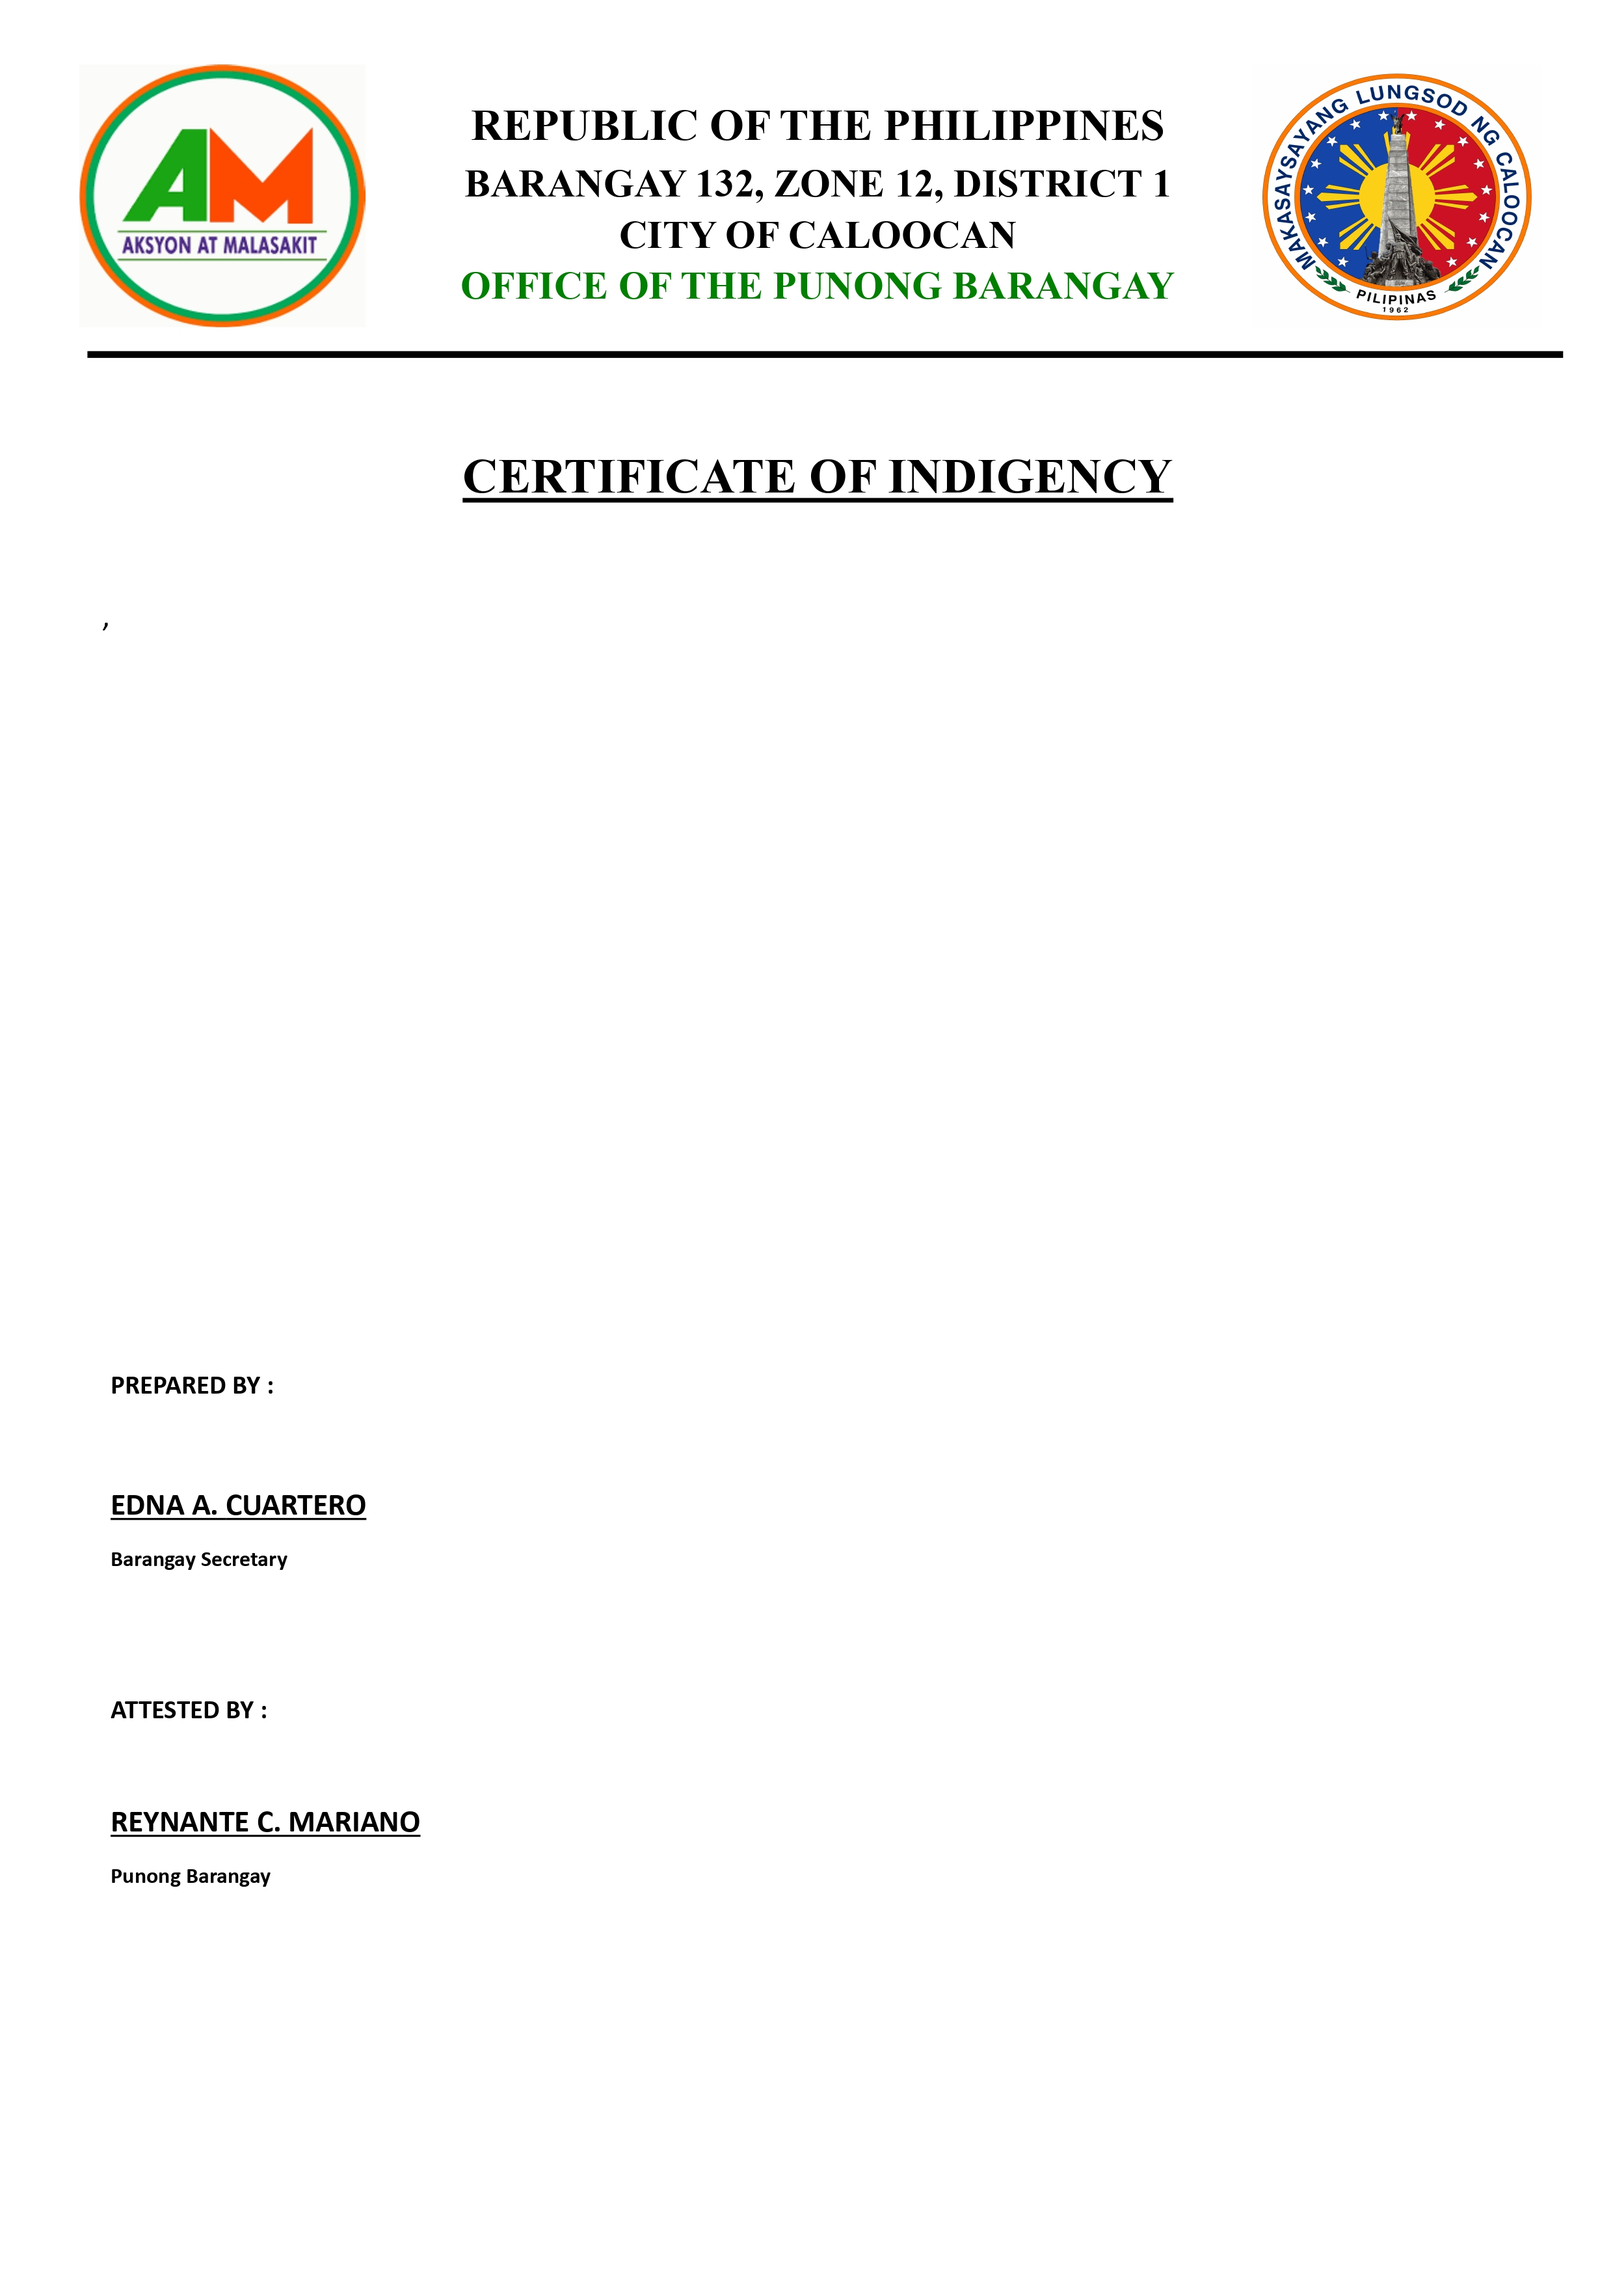
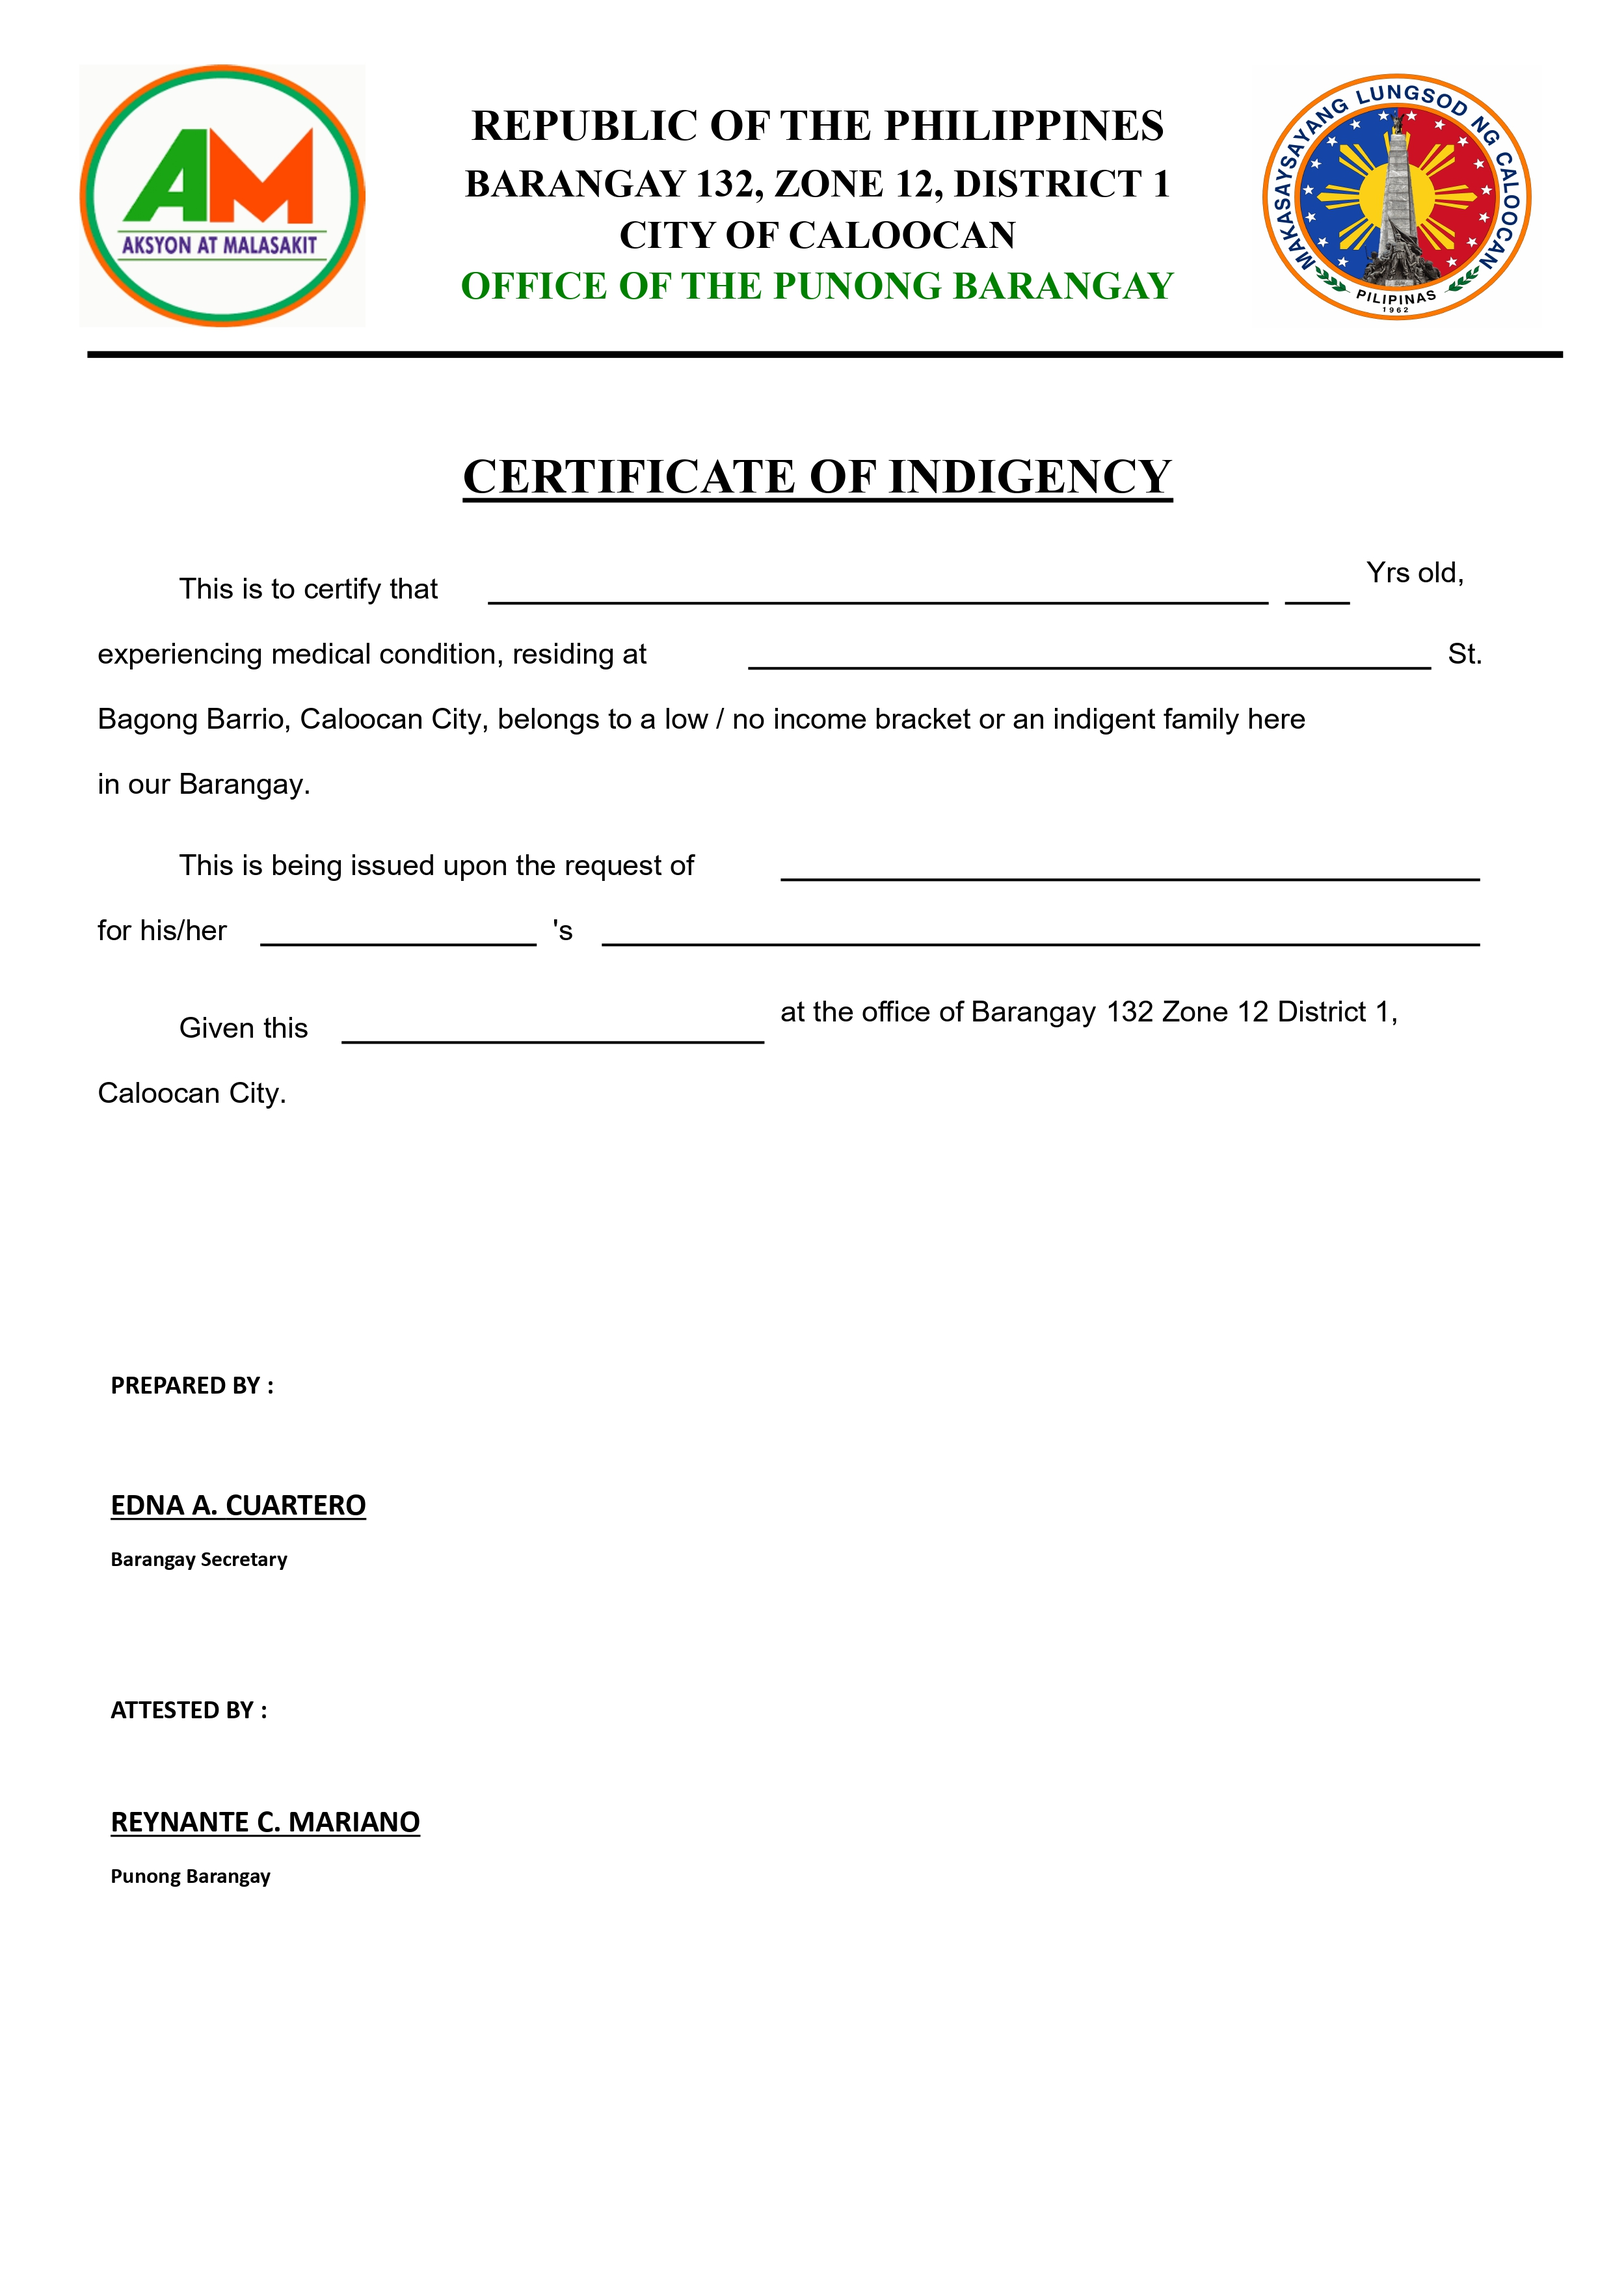
cert indigency

diff --git a/src/app/shared/master-data/master-data.component.ts b/src/app/shared/master-data/master-data.component.ts
@@ -1,5 +1,5 @@
 import { CommonModule } from '@angular/common';
-import { Component, inject, OnDestroy, OnInit } from '@angular/core';
+import { Component, inject, OnDestroy, OnInit, TemplateRef } from '@angular/core';
 import { FormsModule } from '@angular/forms';
 import { NgbActiveModal, NgbDateAdapter, NgbDateParserFormatter, NgbDateStruct, NgbDropdownModule, NgbModal } from '@ng-bootstrap/ng-bootstrap';
 import { ResidentInfoComponent } from '../resident-info/resident-info.component';
@@ -62,6 +62,14 @@ export class MasterDataComponent implements OnInit, OnDestroy {
   selectedImages!: FileList;
   imagesBase64: string[] = []
   o: Resident | undefined;
+
+  parameters = {
+    name: '',
+    age: '',
+    street: '',
+    relation: '',
+    purpose: ''
+  };
 
 
   constructor(private activeModal: NgbActiveModal,
@@ -411,7 +419,7 @@ export class MasterDataComponent implements OnInit, OnDestroy {
       const resident = this.residents[this.selectedResident];
       const fullName = resident.last_name?.toString() + ", "
         + resident.first_name?.toString() + " "
-        + resident.middle_name?.toString()
+        + resident.middle_name?.toString();
 
       const address = resident.present_address?.toString() ?? "";
       const birth_date = resident.birth_date?.toString() ?? "";
@@ -442,31 +450,30 @@ export class MasterDataComponent implements OnInit, OnDestroy {
   }
 
   async generateCertIndigency() {
-    const { value: text } = await Swal.fire({
-      input: "textarea",
-      inputLabel: "Message",
-      inputPlaceholder: "Type your message here...",
-      inputAttributes: {
-        "aria-label": "Type your message here"
-      },
-      showCancelButton: true
+    const doc = new jsPDF({
+      format: 'a4',
+      unit: 'px'
     });
-    if (text) {
-      const doc = new jsPDF({
-        format: 'a4',
-        unit: 'px'
-      });
+    const today = new Date();
+    const resident = this.residents[this.selectedResident];
+    const fullName = resident.last_name?.toString() + ", "
+        + resident.first_name?.toString() + " "
+        + resident.middle_name?.toString();
+    const template = new Image();
+    template.src = "assets/template_cert_indigency.jpg";
+    doc.addImage(template, 0, 0, 445, 600);
 
-      const resident = this.residents[this.selectedResident];
-      const template = new Image();
-      template.src = "assets/template_cert_indigency.jpg";
-      doc.addImage(template, 0, 0, 445, 600);
+    doc.setFontSize(12);
+    doc.text(this.parameters.name.toUpperCase(), 250, 155, { align: 'center' });
+    doc.text(this.parameters.age, 358, 155);
+    doc.text(this.parameters.street.toUpperCase(), 300, 173, { align: 'center' });
+    doc.text(fullName.toUpperCase(), 310, 228, { align: 'center' });
+    doc.text(this.parameters.relation.toUpperCase(), 110, 245, { align: 'center' });
+    doc.text(this.parameters.purpose.toUpperCase(), 275, 245, { align: 'center' });
 
-      doc.setFontSize(12);
-      doc.text(text.toUpperCase(), 25, 160, { maxWidth: 400, align: 'justify' });
-      doc.save(resident.last_name?.toString() + "_" + resident.first_name?.toString() + "_"
-        + resident.middle_name?.toString() + "_CERT_INDIGENCY.pdf");
-    }
+    doc.text(today.toDateString(), 152, 271, { align: 'center' });
+    doc.save(resident.last_name?.toString() + "_" + resident.first_name?.toString() + "_"
+      + resident.middle_name?.toString() + "_CERT_INDIGENCY.pdf");
 
   }
 
@@ -475,11 +482,20 @@ export class MasterDataComponent implements OnInit, OnDestroy {
     const year = date?.year ?? 1111;
     const day = date?.day ?? 1;
     const month = date?.month ?? 1;
-    
+
     const jsDate = new Date(year, month - 1, day);
     let timeDiff = Math.abs(Date.now() - jsDate.getTime());
     let age = Math.floor((timeDiff / (1000 * 3600 * 24)) / 365.25);
     return age;
   }
+
+  openCertIndigency(content: TemplateRef<any>) {
+    this.parameters.name = "";
+    this.parameters.age = "";
+    this.parameters.street = "";
+    this.parameters.relation = "";
+    this.parameters.purpose = "";
+		this.modalService.open(content, { size: 'sm', centered: true });
+	}
 
 }

diff --git a/src/app/shared/master-data/master-data.component.html b/src/app/shared/master-data/master-data.component.html
@@ -137,7 +137,8 @@
                                 </tr>
                                 <tr>
                                     <th>Personal Info</th>
-                                    <td class="text-center"><button type="button" class="btn btn-sm btn-link p-0" (click)="openResidentInfoAttachment()">View</button></td>
+                                    <td class="text-center"><button type="button" class="btn btn-sm btn-link p-0"
+                                            (click)="openResidentInfoAttachment()">View</button></td>
                                 </tr>
                                 <!-- <tr>
                                     <th>Attachment File</th>
@@ -180,7 +181,7 @@
                                 <tr>
                                     <th>Certificate Indigency</th>
                                     <td class="text-center"><button type="button" class="btn btn-link btn-sm p-0"
-                                            (click)="generateCertIndigency()">Generate</button></td>
+                                            (click)="openCertIndigency(content)">Generate</button></td>
                                 </tr>
                                 <tr>
                                     <th>Barangay Indigency</th>
@@ -212,3 +213,35 @@
             Update</button>
     </div>
 </div>
+
+<ng-template #content let-modal>
+    <div class="modal-header">
+        <h4 class="modal-title">Certificate Indigency Parameters</h4>
+        <button type="button" class="btn-close" aria-label="Close" (click)="modal.dismiss('Cross click')"></button>
+    </div>
+    <div class="modal-body">
+        <div class="mb-3">
+            <label class="form-label">Name</label>
+            <input type="text" class="form-control form-control-sm" [(ngModel)]="parameters.name">
+        </div>
+        <div class="mb-3">
+            <label class="form-label">Age</label>
+            <input type="text" class="form-control form-control-sm" [(ngModel)]="parameters.age">
+        </div>
+        <div class="mb-3">
+            <label class="form-label">Street</label>
+            <input type="text" class="form-control form-control-sm" [(ngModel)]="parameters.street">
+        </div>
+        <div class="mb-3">
+            <label class="form-label">Relation</label>
+            <input type="text" class="form-control form-control-sm" [(ngModel)]="parameters.relation">
+        </div>
+        <div class="mb-3">
+            <label class="form-label">Purpose</label>
+            <textarea class="form-control form-control-sm" rows="3" [(ngModel)]="parameters.purpose"></textarea>
+        </div>
+    </div>
+    <div class="modal-footer">
+        <button type="button" class="btn btn-primary btn-sm" (click)="generateCertIndigency()">Generate</button>
+    </div>
+</ng-template>

diff --git a/src/app/pages/home/home.component.html b/src/app/pages/home/home.component.html
@@ -1,15 +1,16 @@
-<div class="row mb-3 bg-dark text-white p-3">
+<div class="row bg-dark text-white p-3">
   <div class="col">
-    <img src="assets/mayor.jpg" alt="mayor-banner" width="850" height="300">
+    <img src="assets/mayor.jpg" alt="mayor-banner" width="500" height="250">
   </div>
   <div class="col align-self-end">
     <p class="h6 text-center header-color" style="margin-left: 30px;">Aksyon at</p>
     <p class="h6 text-end header-color">Malasakit</p>
   </div>
   <div class="col-1 text-end">
-    <button type="button" class="btn btn-secondary btn-lg">About</button>
+    <button type="button" class="btn btn-outline-secondary btn-lg">About</button>
   </div>
 </div>
+
 <div class="canvas-container">
   <canvas #innerCanvas></canvas>
   <canvas #outerCanvas (click)="clickCanvas($event, content)"></canvas>

diff --git a/src/app/pages/home/home.component.scss b/src/app/pages/home/home.component.scss
@@ -28,6 +28,7 @@ canvas {
     color: #F57921;
     -webkit-text-stroke-width: 2px;
     -webkit-text-stroke-color: #f3f3f3e3;
-    font-size: 7.5rem;
-    font-family: 'Lobster';
+    font-size: 5rem;
+    font-style: oblique;
+    text-shadow: 5px 5px #05050567;
 }
